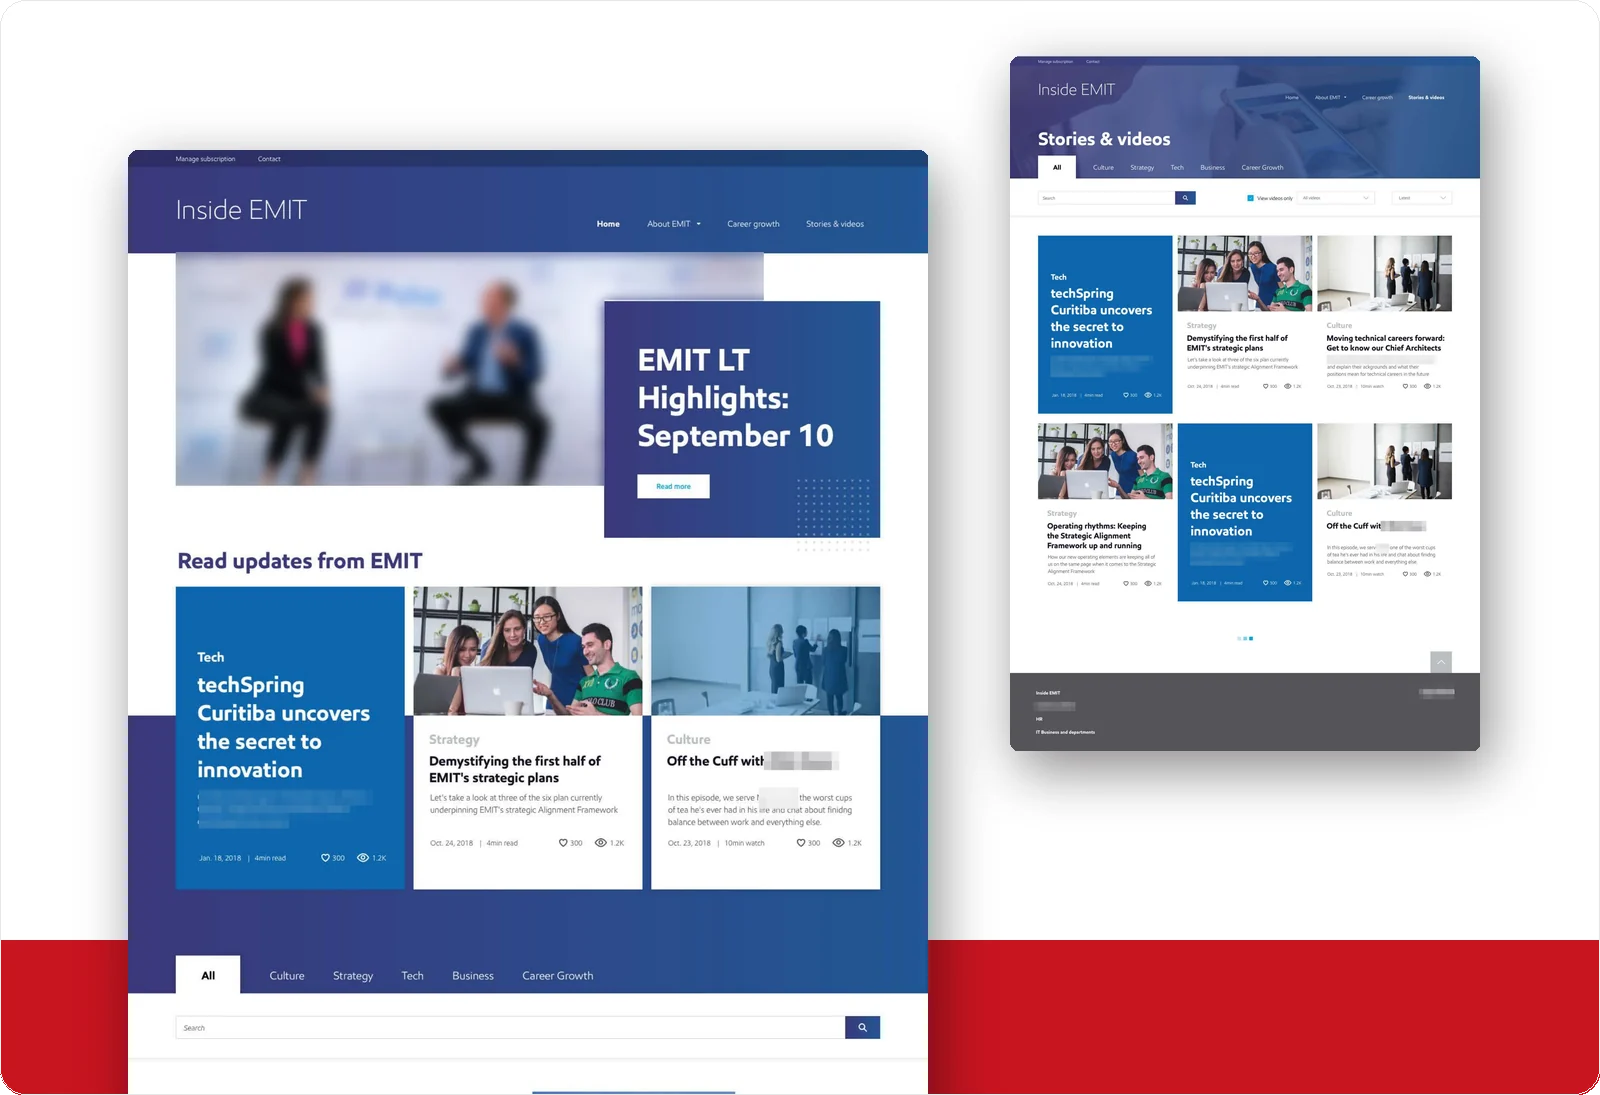
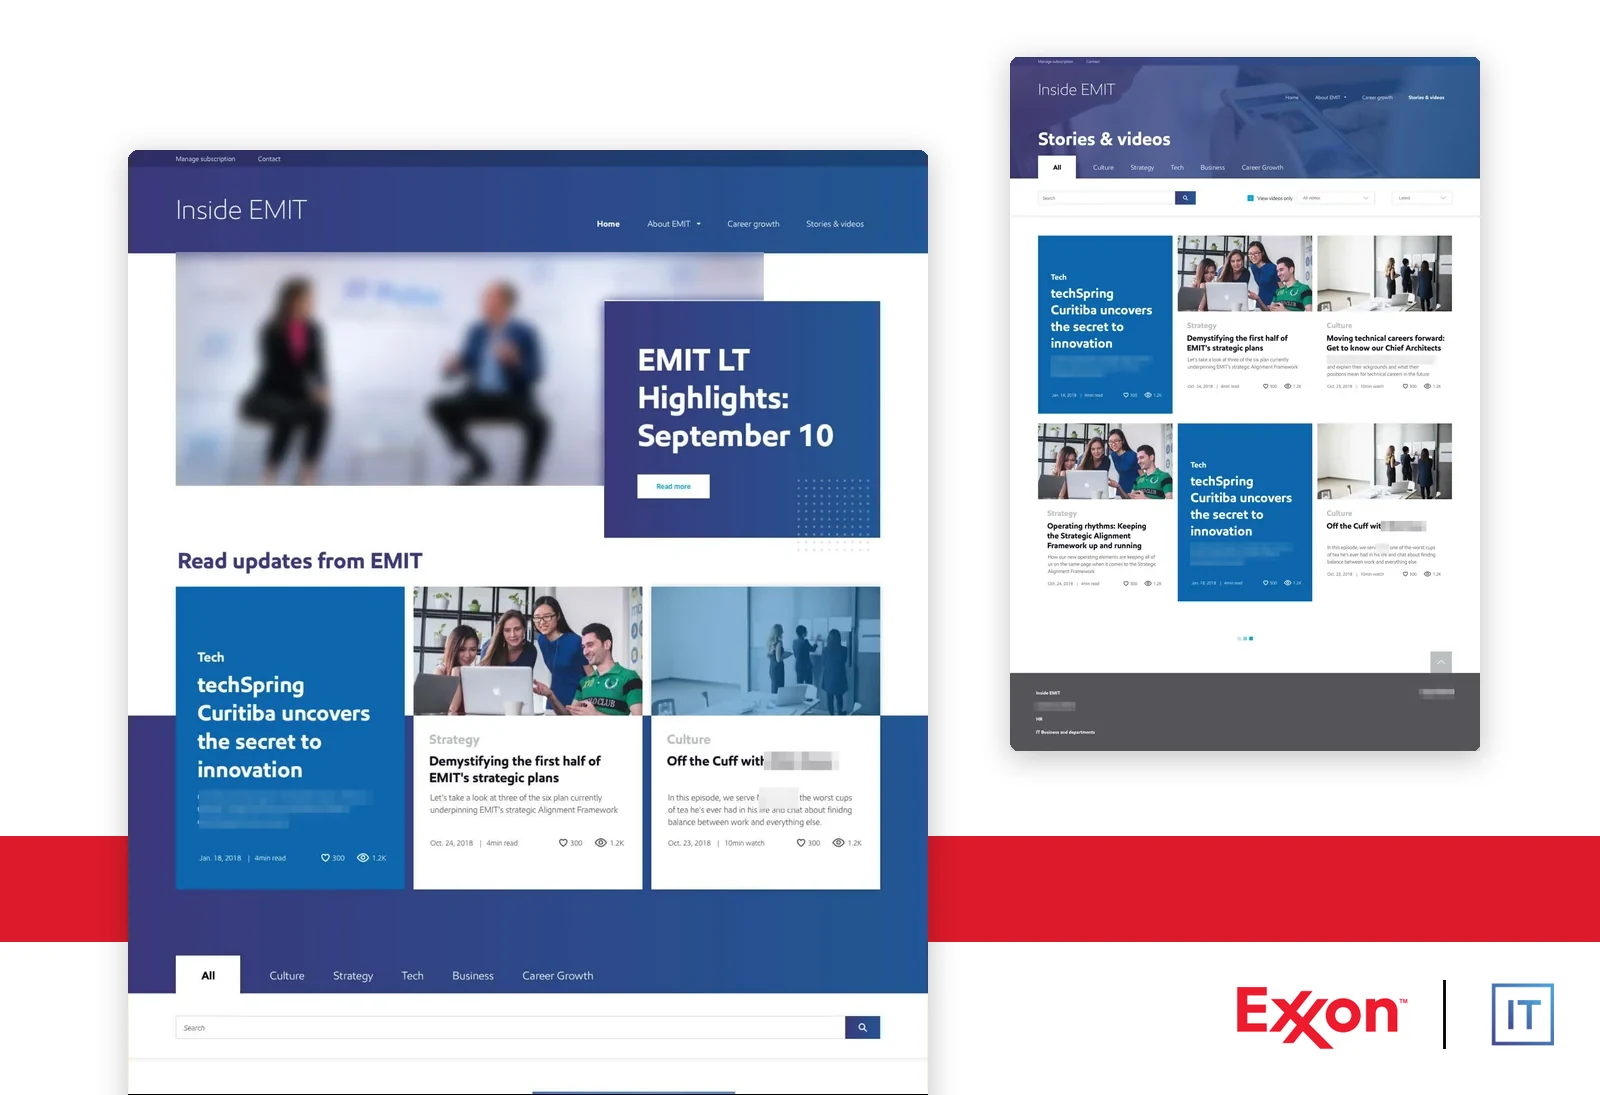
Content Curation: real artifacts in the Full view, heroes on the client background
- Personas and interview takeaways now show the original Inside EMIT artifacts
  in the Full view; the whitewashed archive versions stay in the Brief.
- Interview takeaways rebuilt with the source four-pillar palette and titles,
  transparent background and white panels. New figure.bare drops the frame
  border and adds a drop shadow so the cards read on the page.
- Both heroes rebuilt on the comp's background — red stripe with the client
  lockup bottom right. The lockup is blurred in the Brief; the Brief screens
  are restored from the original composite, bleeding off bottom and top.
- Brief and Full now carry separate notices, each describing only its own view.

Changed region(s): [[0.0, 0.0621, 1.0, 1.0]]

diff --git a/css/style.css b/css/style.css
@@ -180,6 +180,7 @@ article.case ul{color:var(--muted-2);padding-left:22px}
 article.case ul li{margin-top:8px}
 article.case figure{margin-top:30px}
 article.case figure img{border-radius:6px;border:1px solid var(--hair);width:100%}
+article.case figure.bare img{border:none;border-radius:0;filter:drop-shadow(0 2px 5px rgba(0,0,0,.13))}
 article.case figcaption{font-size:13px;color:var(--muted);margin-top:10px;font-family:var(--serif);font-style:italic}
 .case-meta{display:flex;gap:40px;flex-wrap:wrap;border-top:1px solid var(--hair);border-bottom:1px solid var(--hair);padding:20px 0;margin:34px 0}
 .case-meta div span{display:block;font-size:12px;text-transform:uppercase;letter-spacing:.08em;color:var(--muted);font-weight:600;margin-bottom:4px}
